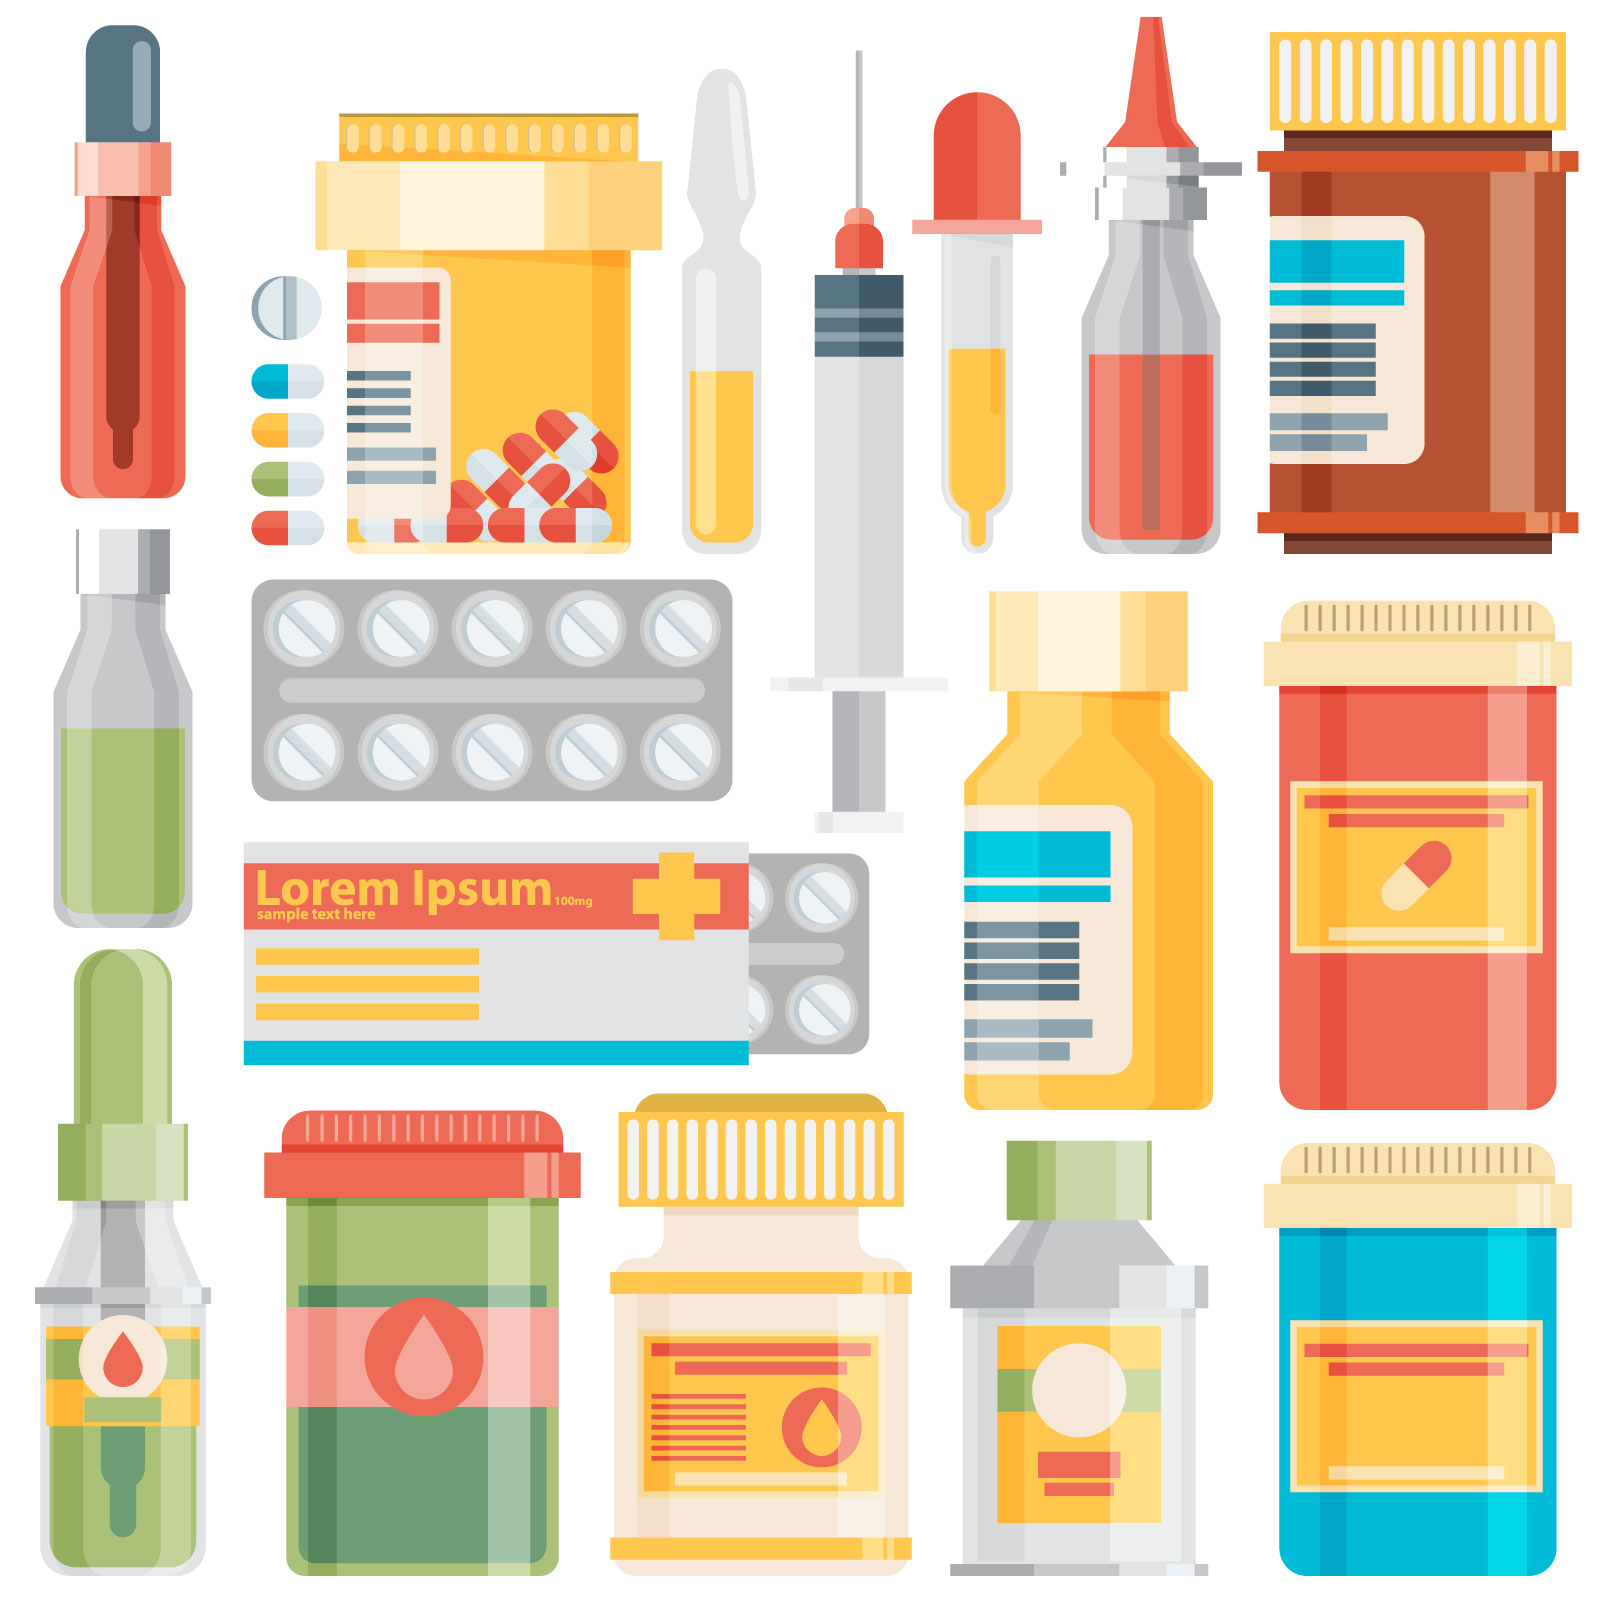
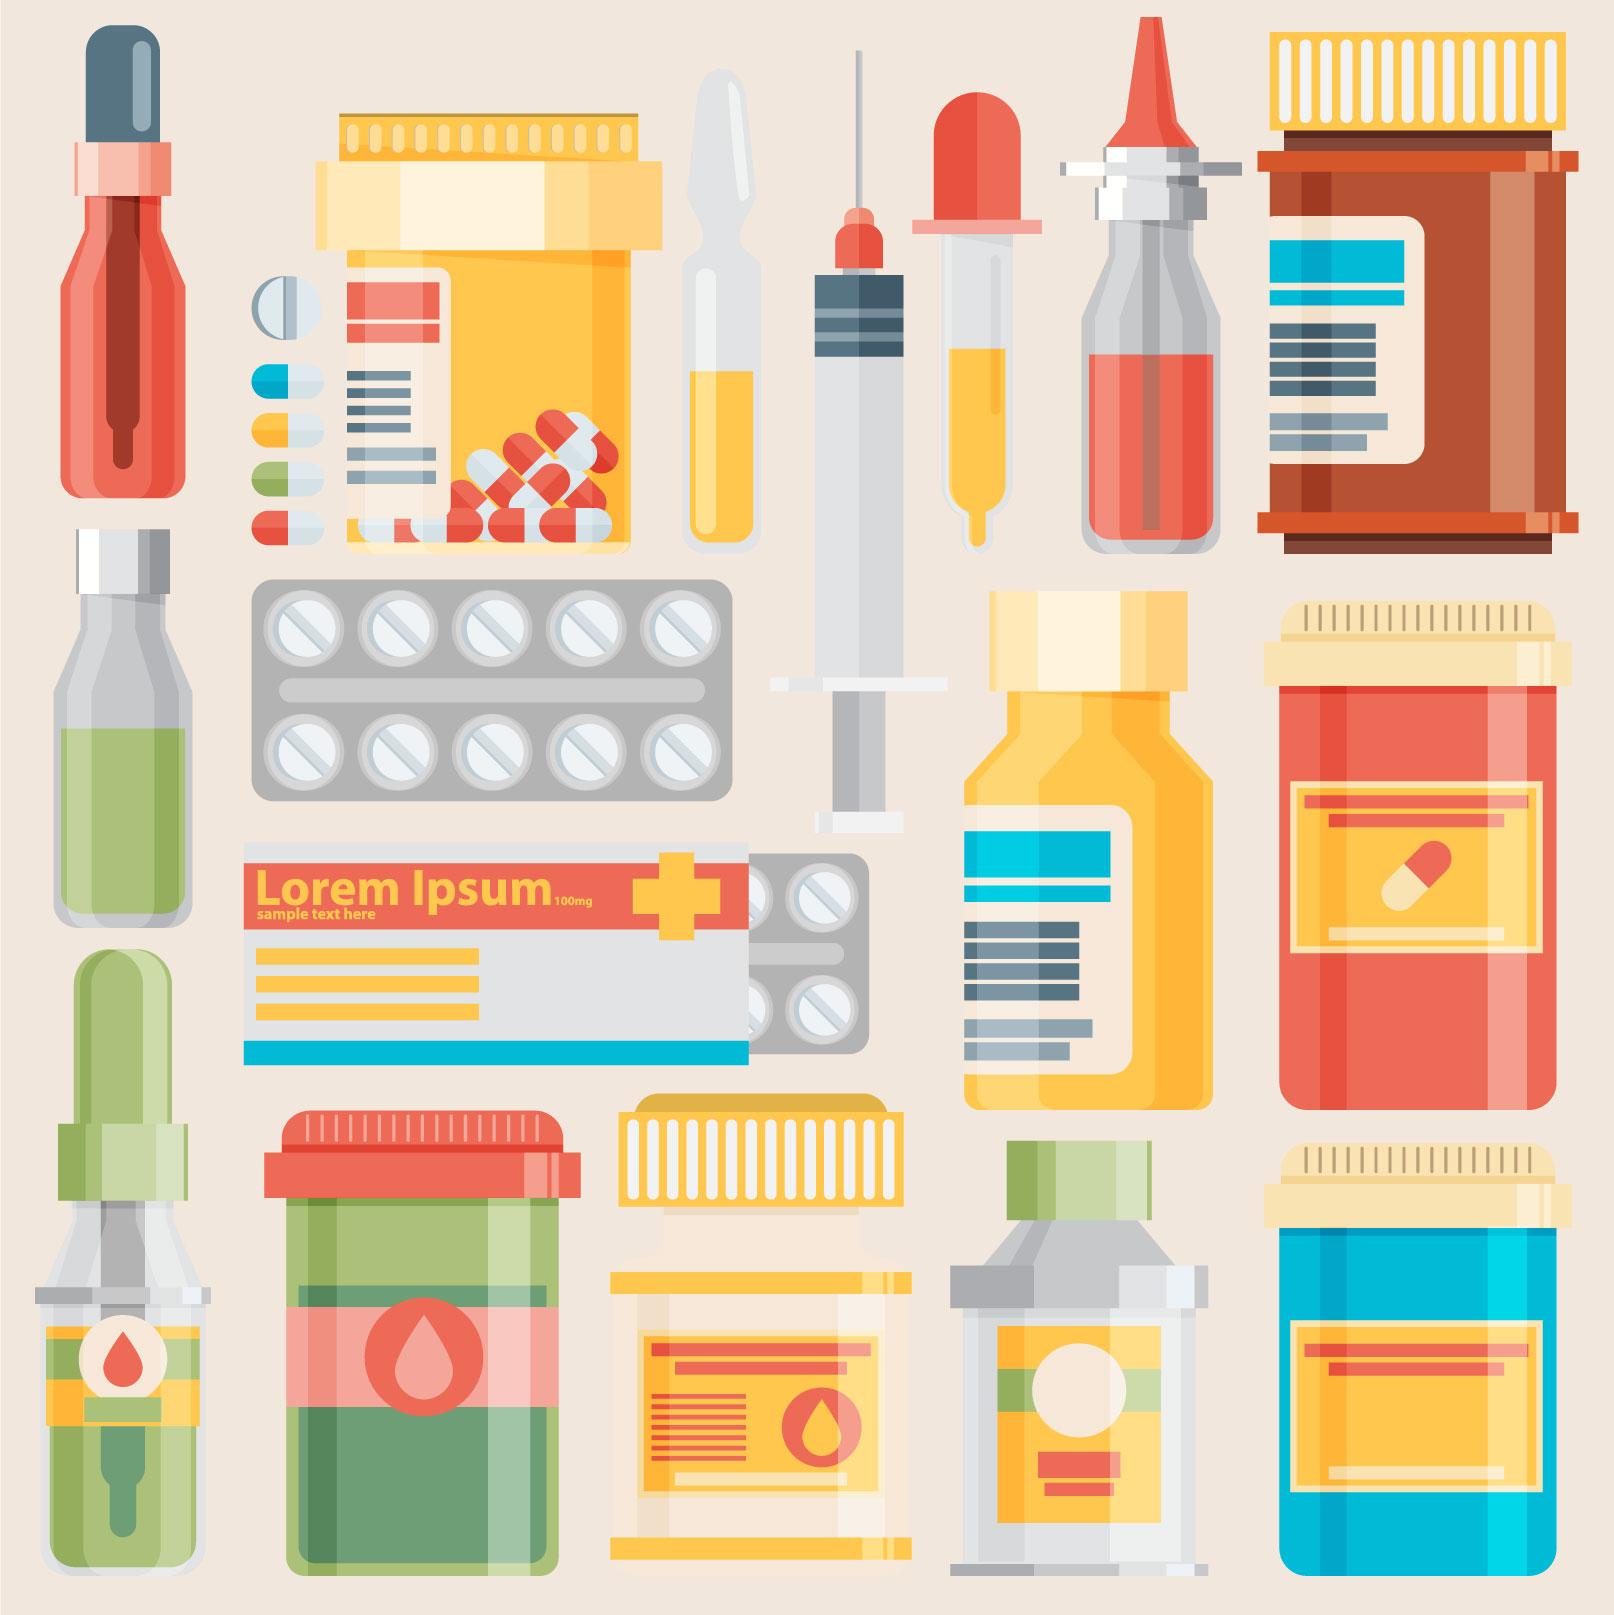
new wiki

diff --git a/code/index.html b/code/index.html
@@ -24,7 +24,7 @@
 <body>
 	
 
-  <div class="top-page" style="background-color:#FFF7ED; border-radius: 50px 50px 50px 50px; height:70%; margin: 1% 1% 0% 1%; padding:1% 0 5% 0;">
+  <div class="top-page" style="background-color:#F2E7DC; border-radius: 50px 50px 50px 50px; height:70%; margin: 1% 1% 0% 1%; padding:1% 0 5% 0;">
     <div data-include="navbar"></div>
     <div class="row" style="align-items: baseline;">
             <div class="col-md-6 animate__animated animate__fadeIn animate__delay-2s">

diff --git a/code/css/style.css b/code/css/style.css
@@ -22,7 +22,7 @@
 html, body{
   margin:0;
   padding:0;
-  background-color: #292927;
+ 
 
 }
 
@@ -36,7 +36,7 @@ nav {
 }
 
 .navbar {
-  background-color:#FFF7ED;
+  background-color:#F2E7DC;
 
 }
 
